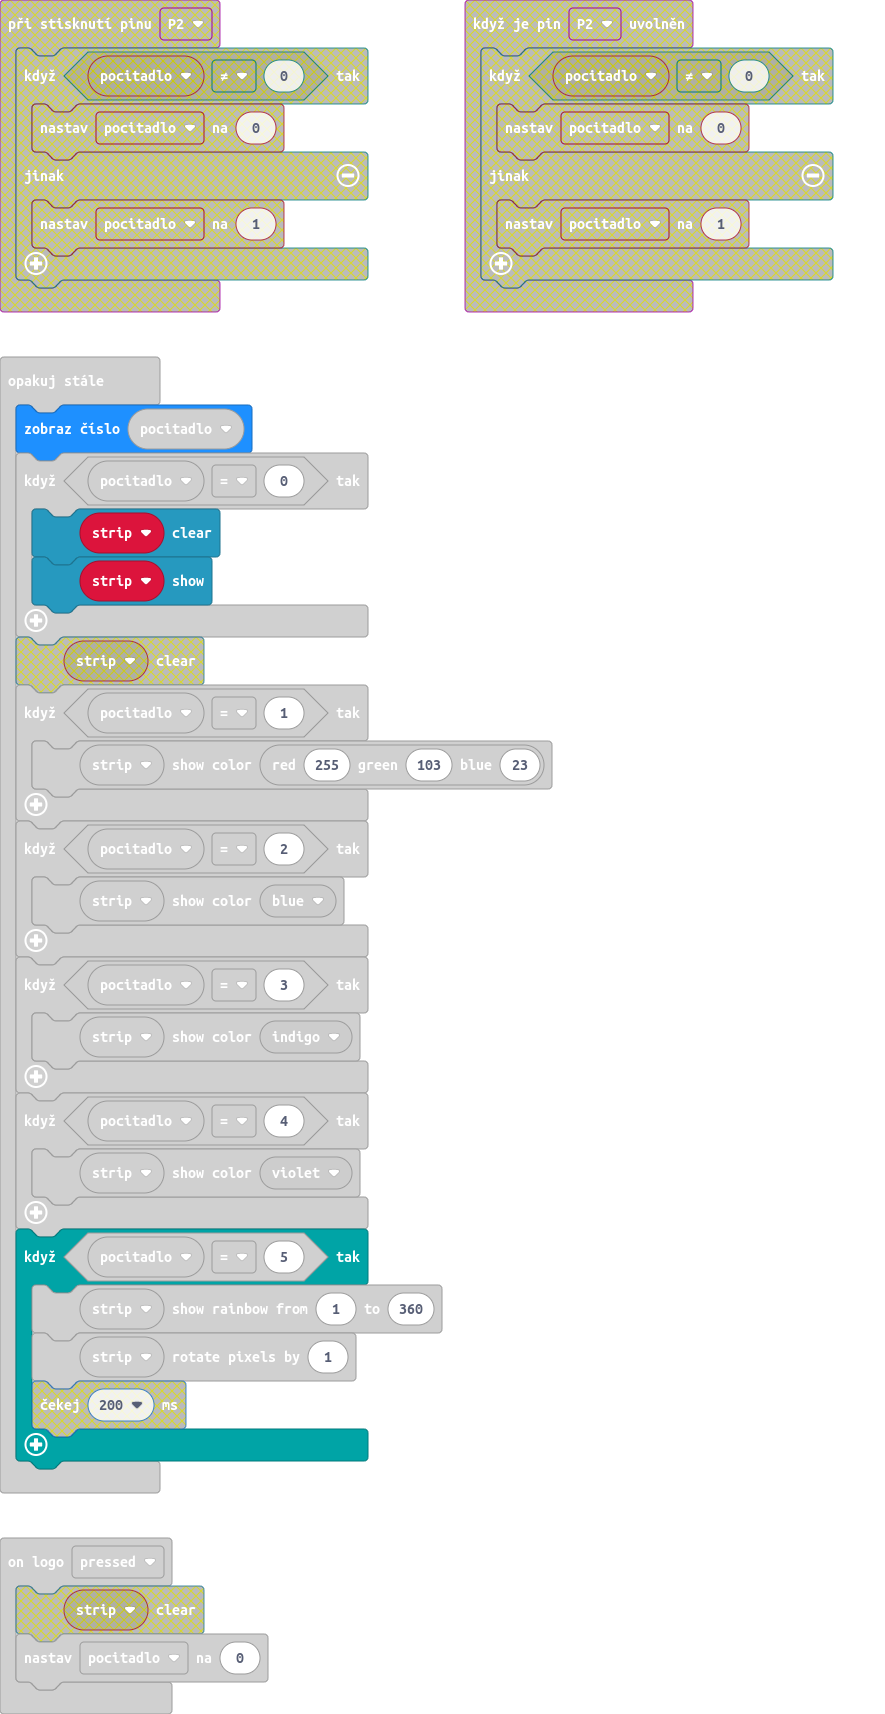
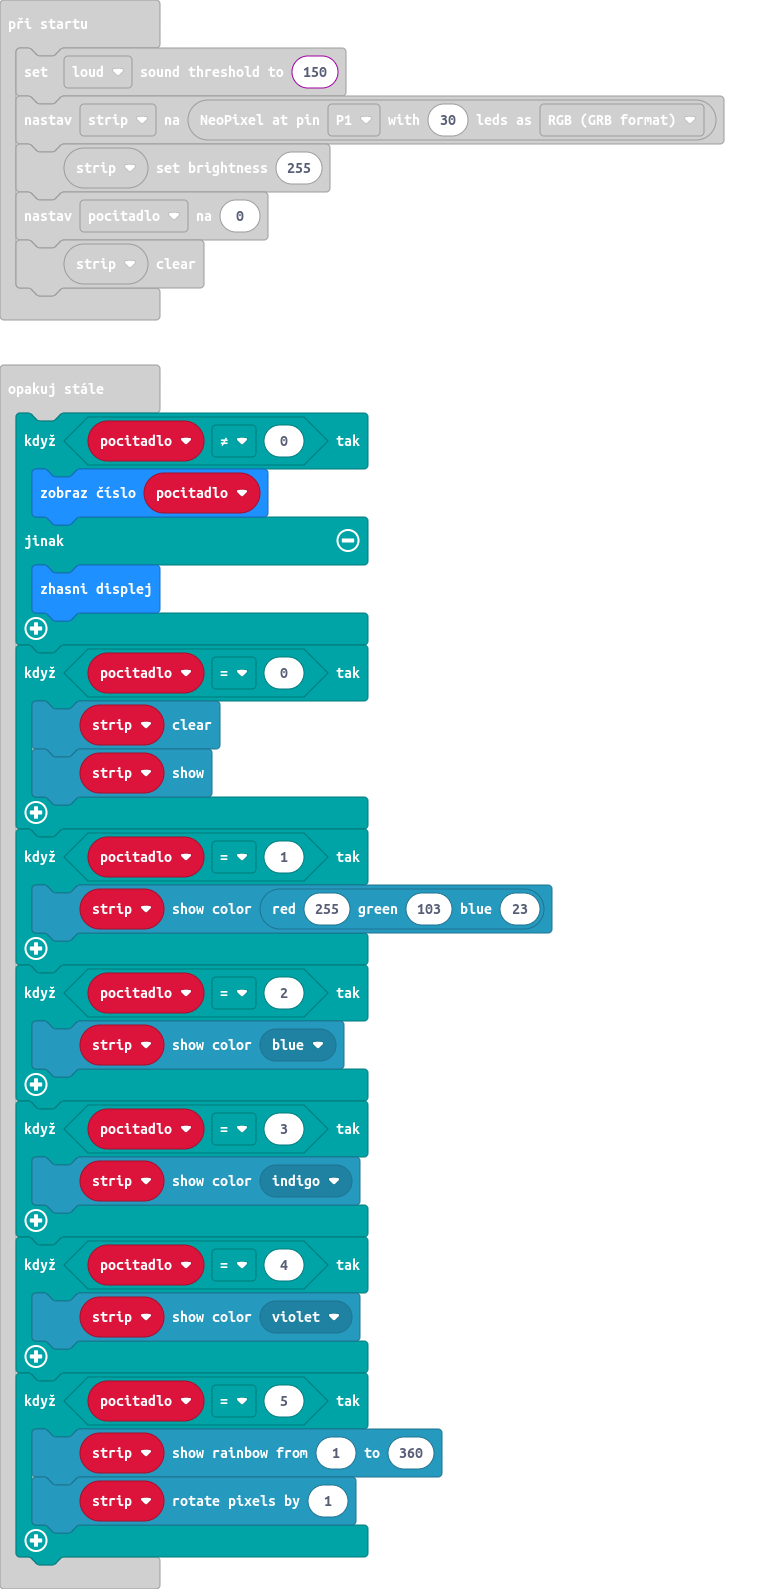
Aktualizovat main.blocks, main.ts

diff --git a/main.ts b/main.ts
@@ -20,13 +20,17 @@ input.onLogoEvent(TouchButtonEvent.Pressed, function () {
     pocitadlo = 0
 })
 let pocitadlo = 0
-input.setSoundThreshold(SoundThreshold.Loud, 111)
+input.setSoundThreshold(SoundThreshold.Loud, 150)
 let strip = neopixel.create(DigitalPin.P1, 30, NeoPixelMode.RGB)
 strip.setBrightness(255)
 pocitadlo = 0
 strip.clear()
 basic.forever(function () {
-    basic.showNumber(pocitadlo)
+    if (pocitadlo != 0) {
+        basic.showNumber(pocitadlo)
+    } else {
+        basic.clearScreen()
+    }
     if (pocitadlo == 0) {
         strip.clear()
         strip.show()
